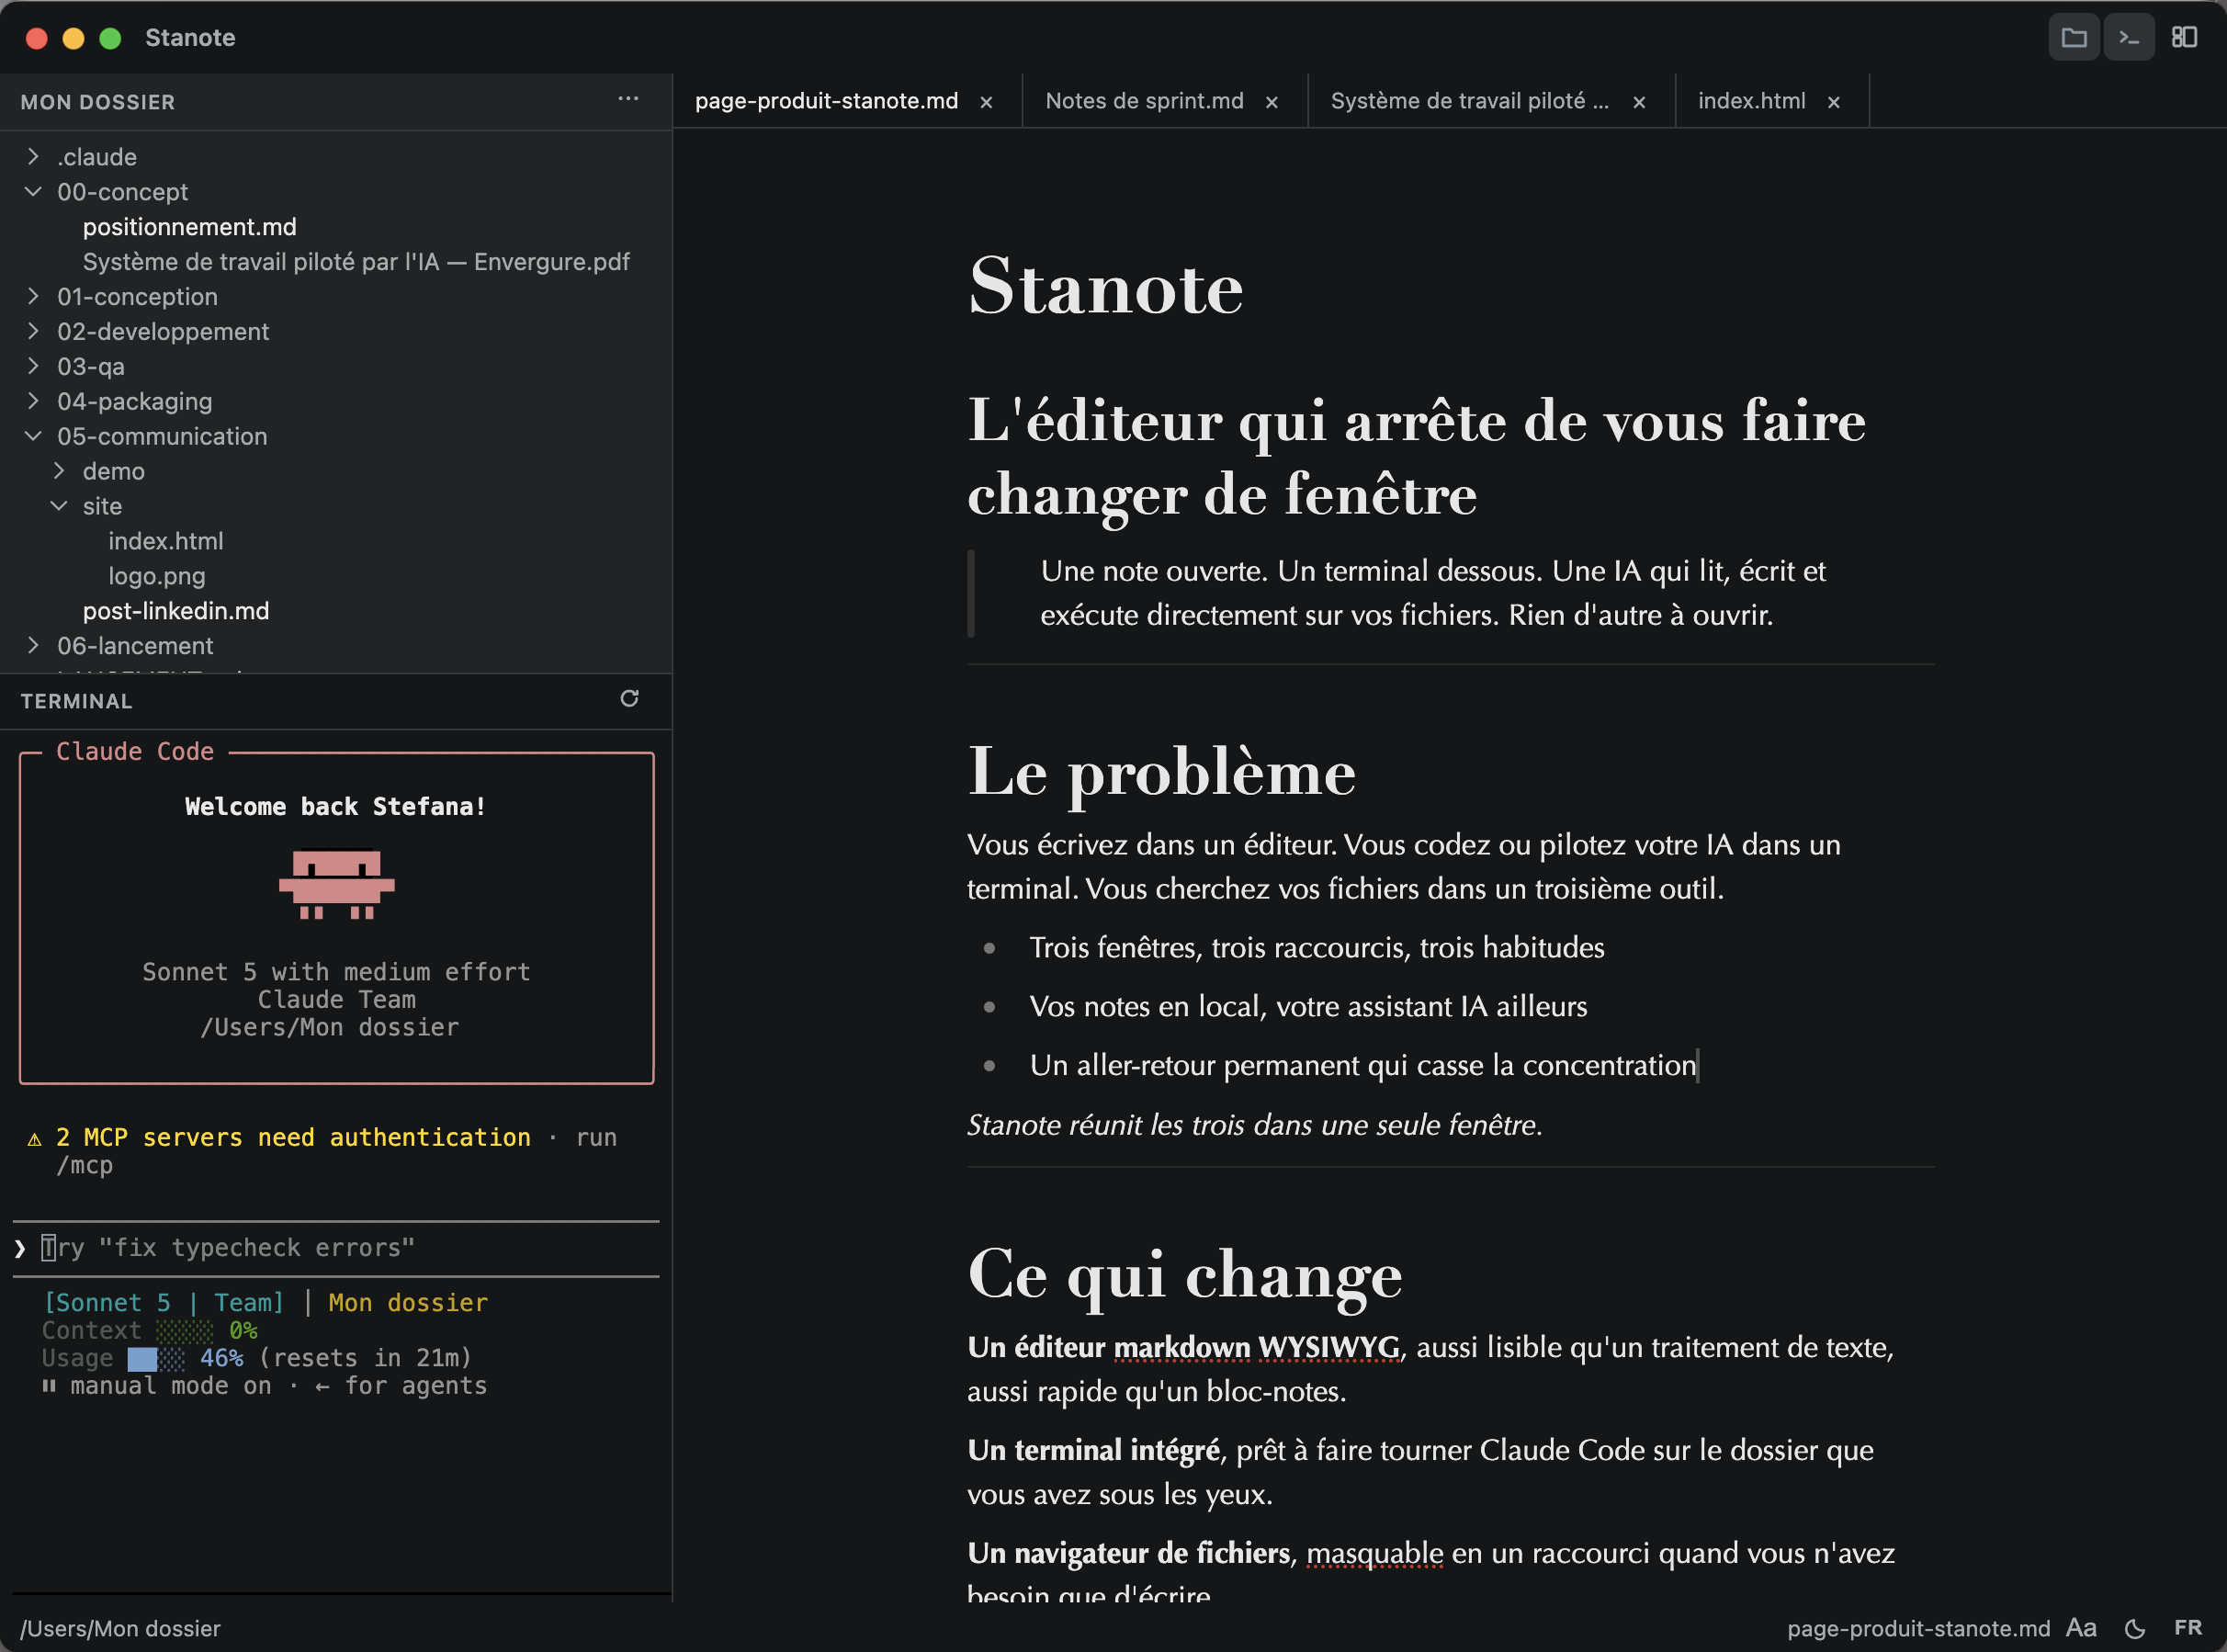
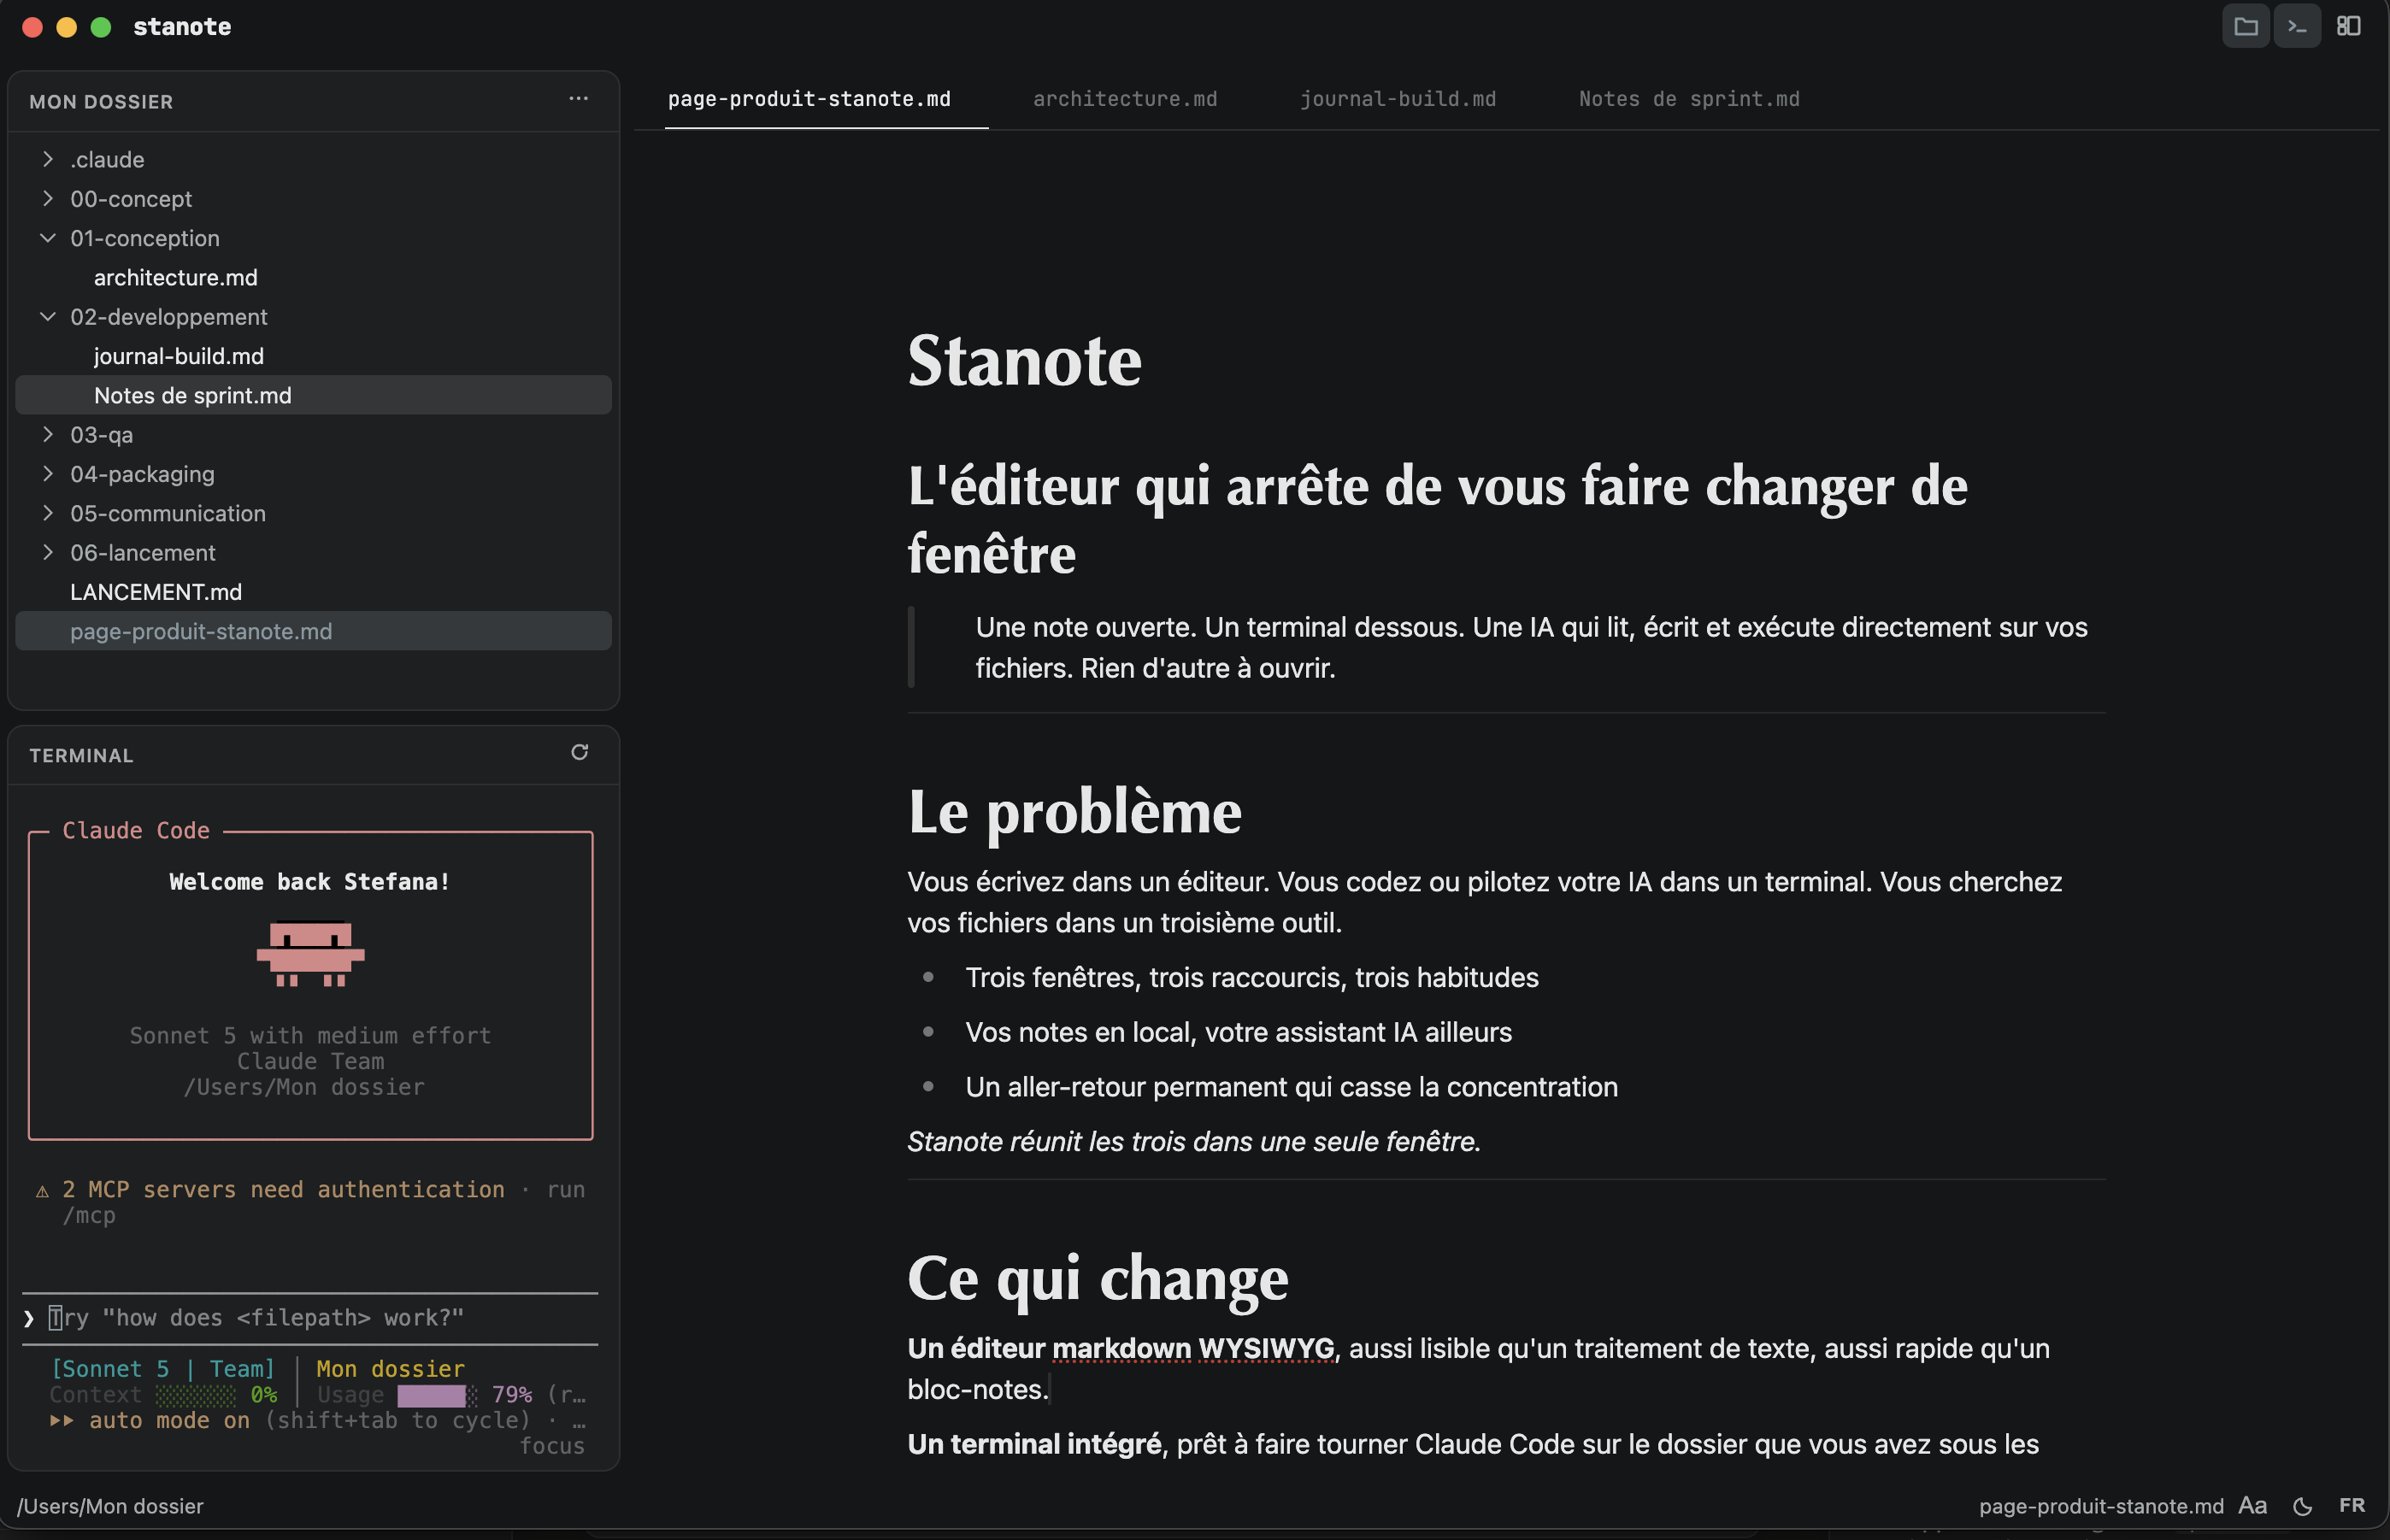
docs: deux captures d'écran dans le README (sombre + clair)

diff --git a/README.md b/README.md
@@ -12,16 +12,9 @@ Stanote réunit trois outils que vous jonglez toute la journée : un éditeur ma
 ## Aperçu
 
 <div align="center">
-  <img src="assets/screenshots/apercu.png" alt="Aperçu de Stanote" width="820" />
+  <img src="assets/screenshots/apercu.png" alt="Stanote — éditeur et terminal, thème sombre" width="49%" />
+  <img src="assets/screenshots/apercu2.png" alt="Stanote — disposition barre latérale, thème clair" width="49%" />
 </div>
-
-<!-- Vous pouvez ajouter d'autres captures ici, par ex. :
-<div align="center">
-  <img src="assets/screenshots/editeur.png" alt="Éditeur" width="270" />
-  <img src="assets/screenshots/terminal.png" alt="Terminal" width="270" />
-  <img src="assets/screenshots/dispositions.png" alt="Dispositions" width="270" />
-</div>
--->
 
 ## Fonctionnalités
 